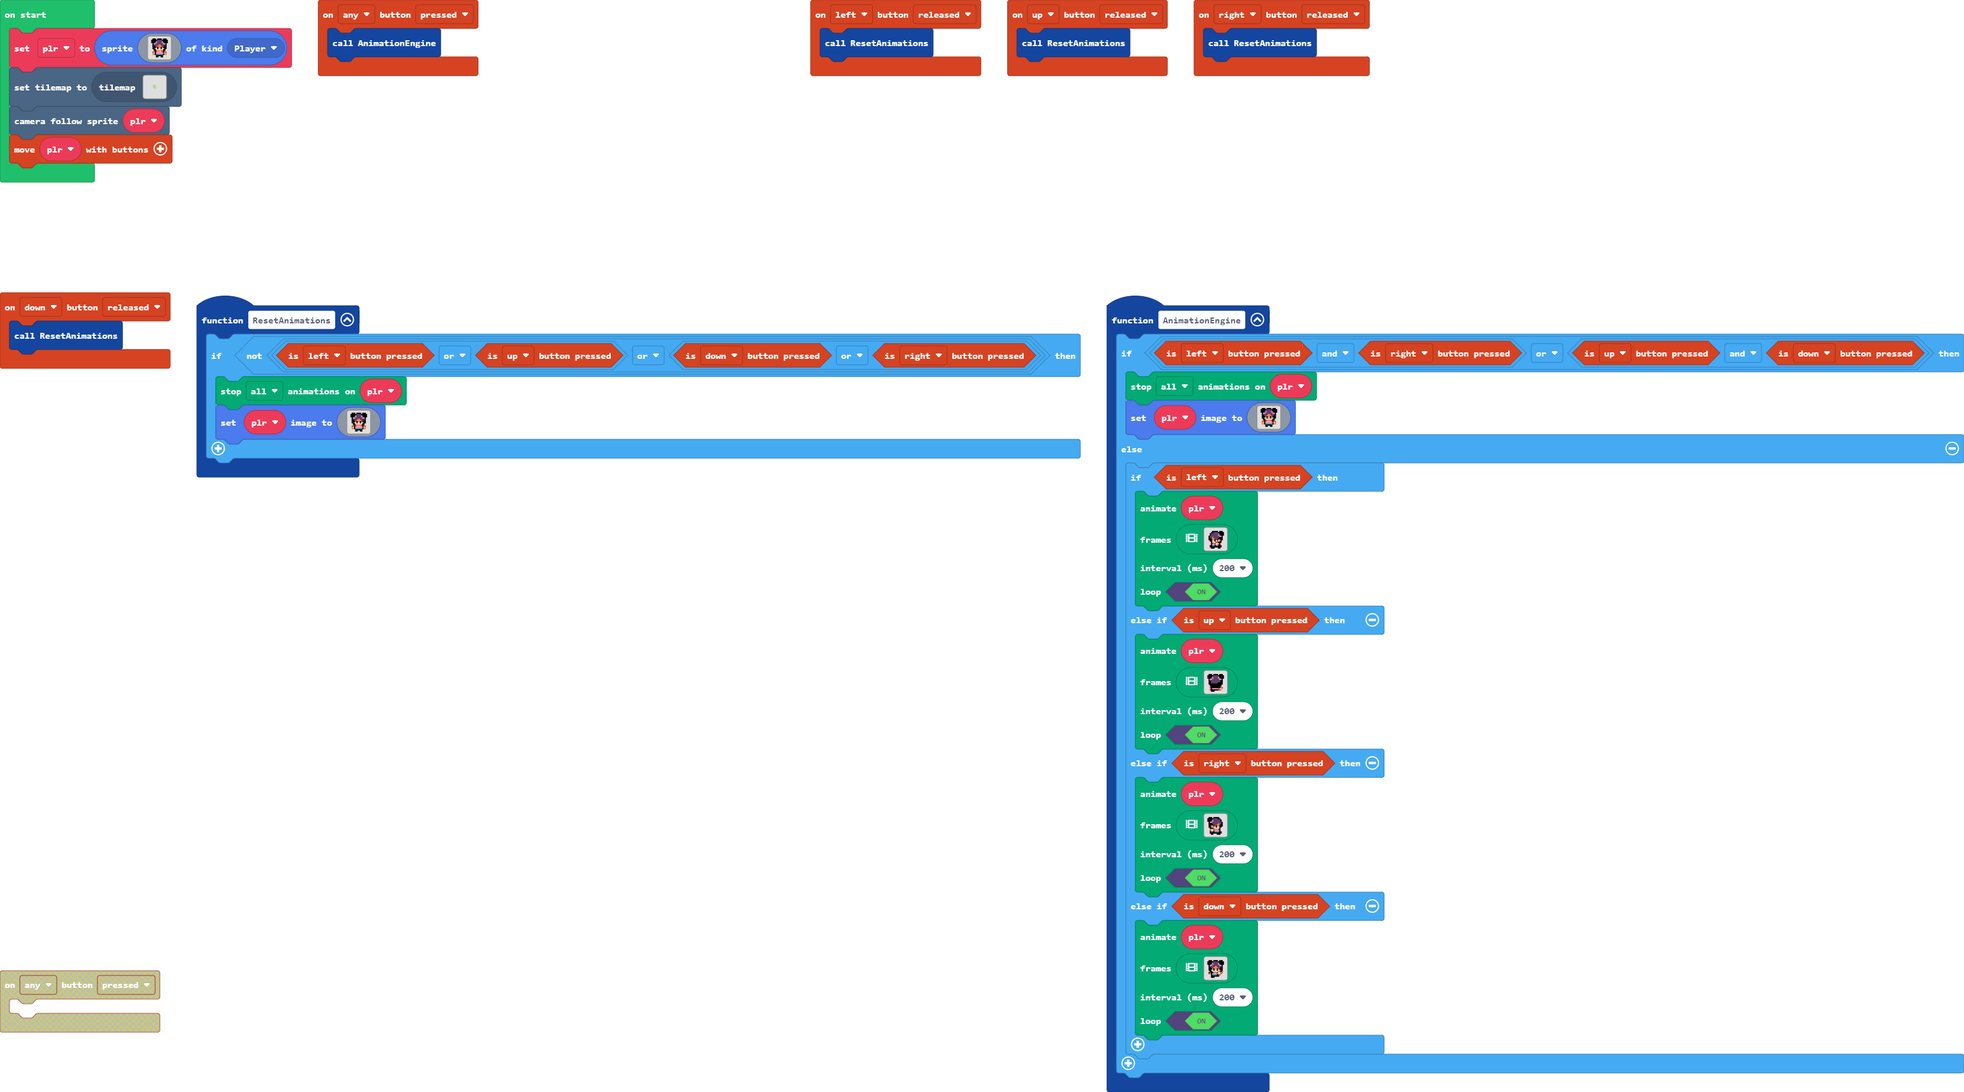
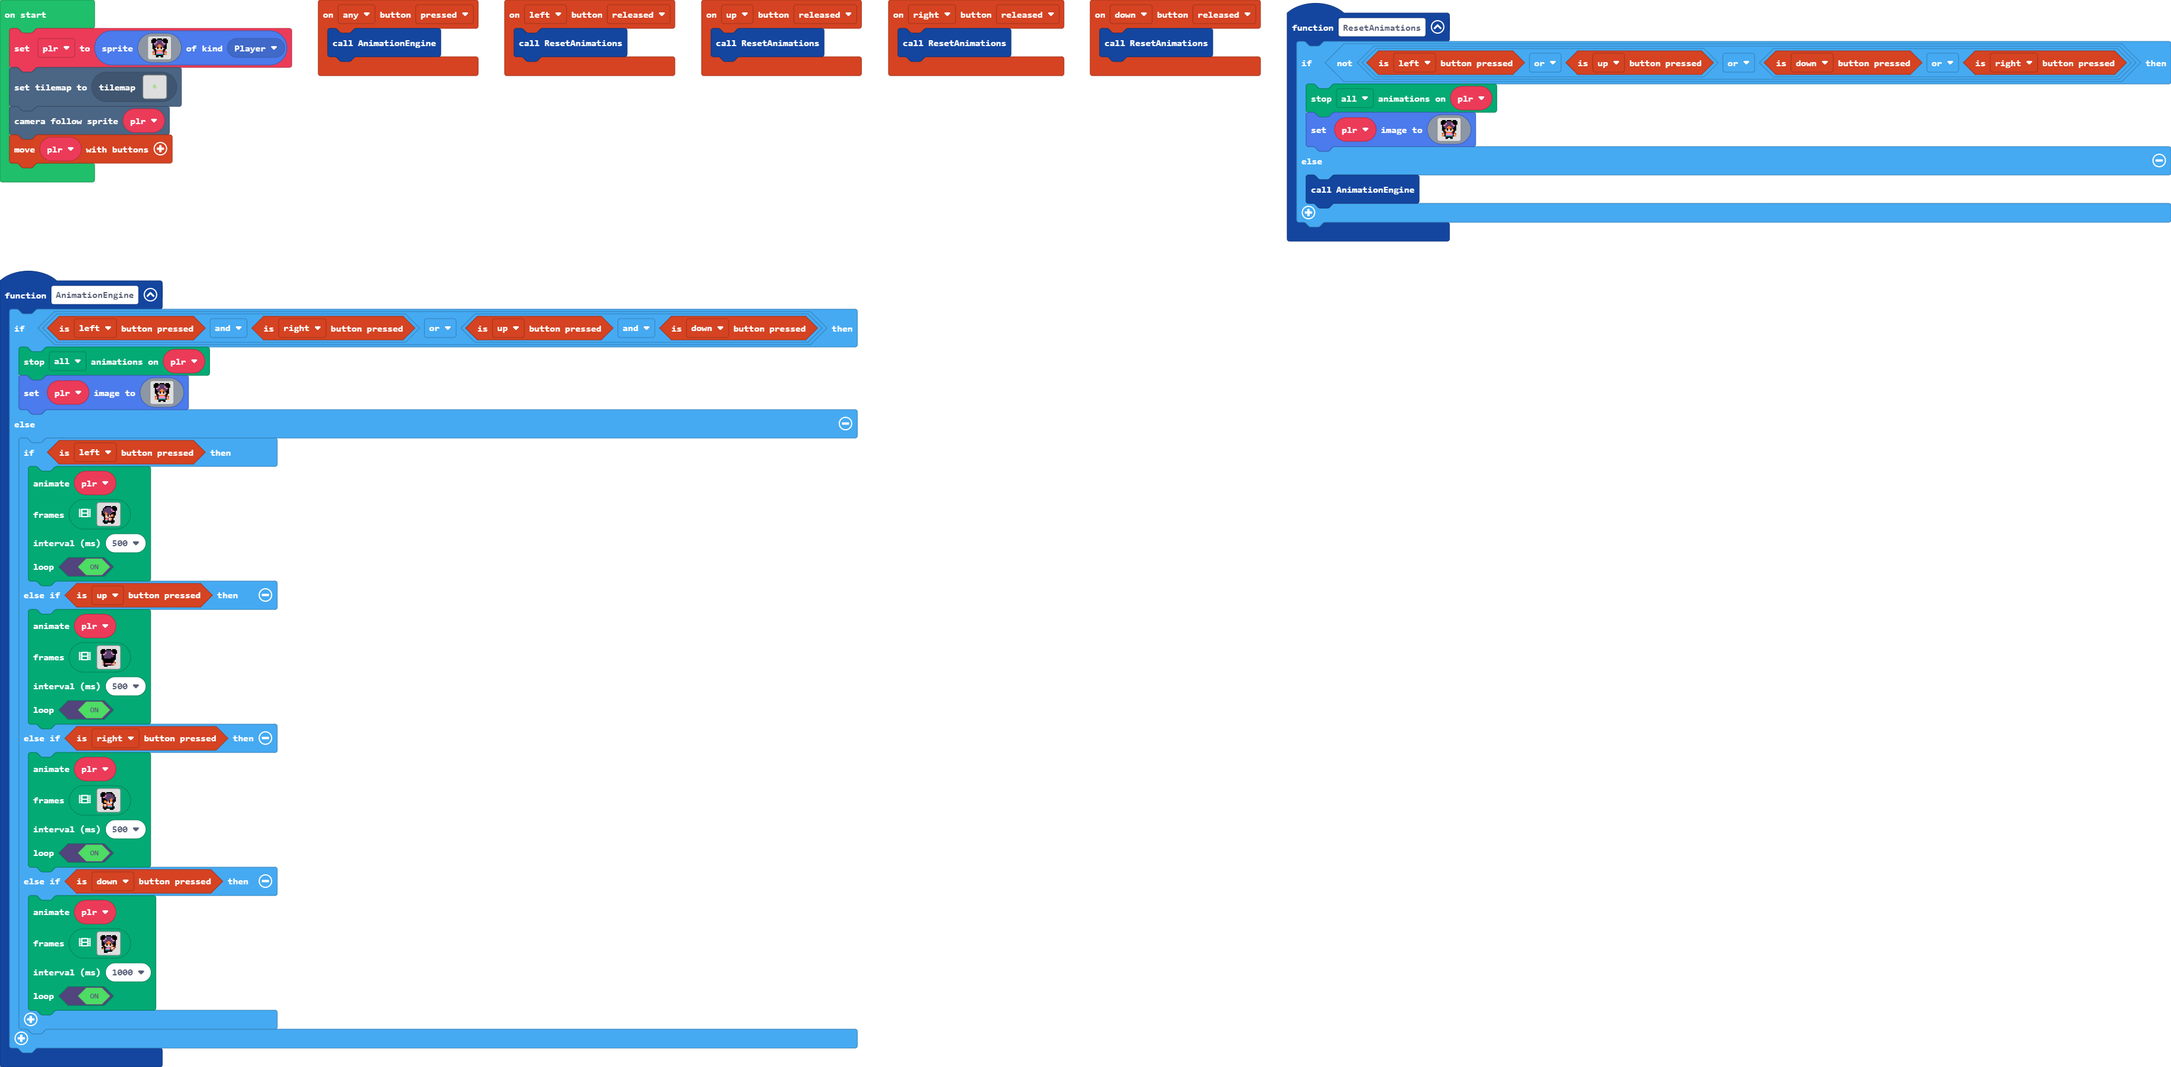
Update main.blocks, main.ts, tilemap.g.jres, tilemap.g.ts, images.g.jres, images.g.ts

Changed region(s): [[0.0, 0.2482, 1.0, 1.0], [0.0, 0.0, 1.0, 0.2482]]

diff --git a/tilemap.g.ts b/tilemap.g.ts
@@ -6,7 +6,7 @@ namespace myTiles {
     helpers._registerFactory("tilemap", function(name: string) {
         switch(helpers.stringTrim(name)) {
             case "forest":
-            case "forest1":return tiles.createTilemap(hex`4000400000000000000000000000000000000000000000000000000000000000000000000000000000000000000000000000000000000000000000000000000000000000000000000000000000000000000000000000000000000000000000000000000000000000000000000000000000000000000000000000000000000000000000000000000000000000000000000000000000000000000000000000000000000000000000000000000000000000000000000000000000000000000000000000000000000000000000000000000000000000000000000000000000000000000000000000000000000000000000000000000000000000000000000000000000000000000000000000000000000000000000000000000000000000000000000000000000000000000000000000000000000000000000000000000000000000000000000000000000000000000000000000000000000000000000000000000000000000000000000000000000000000000000000000000000000000000000000000000000000000000000000000000000000000000000000000000000000000000000000000000000000000000000000000000000000000000000000000000000000000000000000000000000000000000000000000000000000000000000000000000000000000000000000000000000000000000000000000000000000000000000000000000000000000000000000000000000000000000000000000000000000000000000000000000000000000000000000000000000000000000000000000000000000000000000000000000000000000000000000000000000000000000000000000000000000000000000000000000000000000000000000000000000000000000000000000000000000000000000000000000000000000000000000000000000000000000000000000000000000000000000000000000000000000000000000000000000000000000000000000000000000000000000000000000000000000000000000000000000000000000000000000000000000000000000000000000000000000000000000000000000000000000000000000000000000000000000000000000000000000000000000000000000000000000000000000000000000000000000000000000000000000000000000000000000000000000000000000000000000000000000000000000000000000000000000000000000000000000000000000000000000000000000000000000000000000000000000000000000000000000000000000000000000000000000000000000000000000000000000000000000000000000000000000000000000000000000000000000000000000000000000000000000000000000000000000000000000000000000000000000000000000000000000000000000000000000000000000000000000000000000000000000000000000000000000000000000000000000000000000000000000000000000000000000000000000000000000000000000000000000000000000000000000000000000000000000000000000000000000000000000000000000000000000000000000000000000000000000000000000000000000000000000000000000000000000000000000000000000000000000000000000000000000000000000000000000000000000000000000000000000000000000000000000000000000000000000000000000000000000000000000000000000000000000000000000000000000000000000000000000000000000000000000000000000000000000000000000000000000000000000000000000000000000000000000000000000000000000000000000000000000000000000000000000000000000000000000000000000000000000000000000000000000000000000000000000000000000000000000000000000000000000000000000000000000000000000000000000000000000000000000000000000000000000000000000000000000000000000000000000000000000000000000000000000000000000000000000000000000000000000000000000000000000000000000000000000000000000000000000000000000000000000000000000000000000000000000000000000000000000000000000000000000000000000000000000000000000000000000000000000000000000000000000000000000000000000000000000000000000000000000000000000080808010809080000000000000000000000000000000000000000000000000000000000000000000000000000000000000000000000000000000000000000000808080808080800000000000000000000000000000000000000000000000000000000000000000000000000000000000000000000000000000000000000000009080808080108000000000000000000000000000000000000000000000000000000000000000000000000000000000000000000000000000000000000000000090908010706050100000000000000000000000000000000000000000000000000000000000000000000000000000000000000000000000000000000000000000808080804020301000000000000000000000000000000000000000000000000000000000000000000000000000000000000000000000000000000000000000008080108040203080008000000000000000000000000000000000000000000000000000000000000000000000000000000000000000000000000000000000000080101080402030900000000000000000000000000000000000000000000000000000000000000000000000000000000000000000000000000000000000000000801010804020308090000000000000000000000000000000000000000000000000000000000000000000000000000000000000000000000000000000000000008010908040203090100000000000000000000000000000000000000000000000000000000000000000000000000000000000000000000000000000000000000080909080402030109080900000000000000000000000000000000000000000000000000000000000000000000000000000000000000000000000000000000000808080804020309080100000000000000000000000000000000000000000000000000000000000000000000000000000000000000000000000000000000000000000606020202060600000000000000000000000000000000000000000000000000000000000000000000000000000000000000000000000000000000000000000002020202020202000000000000000000000000000000000000000000000000000000000000000000000000000000000000000000000000000000000000000000000000000000000000000000000000000000000000000000000000000000000000000000000000000000000000000000000000000000000000000000000000000000000000000000000000000000000000000000000000000000000000000000000000000000000000000000000000000000000000000000000000000000000000000000000000000000000000000000000000000000000000000000000000000000000000000000000000000000000000000000000000000000000000000000000000000000000000000000000000000000000000000000000000000000000000000000000000000000000000000000000000000000000000000000000000000000000000000000000000000000000000000000000000000000000000000000000000000000000000000000000000000000000000000000000000000000000000000000000000000000000000000000000000000000000000000000000000000000000000000000000000000000000000000000000000000000000000000000000000000000000000000000000000000000000000000000000000000000000000000000000000000000000000000000000000000000000000000000000000000000000000000000000000000000000000000000000000000000000000000000000000000000000000000000000000000000000000000000000000000000000000000000000000000000000000000000000000000000000000000000000000000000000000000000000000000000000000000000000000000000000000000000000000000000000000000000000000000000000000000000000000000000000000000000000000000000000000000000000000000000000000000000000000000000000000000000000000000000000000000000000000000000000000000000000000000000000000000000000000000000000000000000000000000000000000000000000000000000000000000000000000000000000000000000000000000000000000000000000000000000000000000000000000000000000000000000000000000000000000000000000000000000000000000000000000000000000000000000000000000000000000000000000000000000000000000000000000000000000000000000000000000000000000000000000000000000000000000000000000000000000000000000000000000000000000000000000000000000000000000000000000000000000000000000000000000000000000000000000000000000000000000000000000000000000000000000000000000000000000000000000000000000000000000000000000000000000000000000000000000000000000000000000000000000000000000000000000000000000000000000000000000000000000000000000000000000000000000000000000000000000000000000000000000000000000000000000000000000000000000000000000000000000000000000000000000000000000000000000000000000000000000000000000000000000000000000000000000000000000000000000000000000000000000000000000000000000000000000000000000000000000000000000000000000000000000000000000000000000000000000000000000000000000000000000000000000000000000000000000000000000000000000000000000000000000000000000000000000000000000000000000000000000000000000000000000000000000000000000000000000000000000000000000000000000000000000000000000000000000000000000000000000000000000000000000000000000000000000000000000000000000000000000000000000000000000000000000000000000000000000000000000000000000000000000000000000000000000000000000000000000000000000000000000000000000000000000000000000000000000000000000000000000000000000000000000000000000000000000000000000000000000000000000000000000000000000000000000000000000000000000000000000000000000000000000000000000000000000000000000000000000000000000000000000000000000000000000000000000000000000000000000000000000000000000000000000000000000000000000000000000000000000000000000000000000000000000000000000000000000000000000000000000000000000000000`, img`
+            case "forest1":return tiles.createTilemap(hex`4000400000000000000000000000000000000000000000000000000000000000000000000000000000000000000000000000000000000000000000000000000000000000000000000000000000000000000000000000000000000000000000000000000000000000000000000000000000000000000000000000000000000000000000000000000000000000000000000000000000000000000000000000000000000000000000000000000000000000000000000000000000000000000000000000000000000000000000000000000000000000000000000000000000000000000000000000000000000000000000000000000000000000000000000000000000000000000000000000000000000000000000000000000000000000000000000000000000000000000000000000000000000000000000000000000000000000000000000000000000000000000000000000000000000000000000000000000000000000000000000000000000000000000000000000000000000000000000000000000000000000000000000000000000000000000000000000000000000000000000000000000000000000000000000000000000000000000000000000000000000000000000000000000000000000000000000000000000000000000000000000000000000000000000000000000000000000000000000000000000000000000000000000000000000000000000000000000000000000000000000000000000000000000000000000000000000000000000000000000000000000000000000000000000000000000000000000000000000000000000000000000000000000000000000000000000000000000000000000000000000000000000000000000000000000000000000000000000000000000000000000000000000000000000000000000000000000000000000000000000000000000000000000000000000000000000000000000000000000000000000000000000000000000000000000000000000000000000000000000000000000000000000000000000000000000000000000000000000000000000000000000000000000000000000000000000000000000000000000000000000000000000000000000000000000000000000000000000000000000000000000000000000000000000000000000000000000000000000000000000000000000000000000000000000000000000000000000000000000000000000000000000000000000000000000000000000000000000000000000000000000000000000000000000000000000000000000000000000000000000000000000000000000000000000000000000000000000000000000000000000000000000000000000000000000000000000000000000000000000000000000000000000000000000000000000000000000000000000000000000000000000000000000000000000000000000000000000000000000000000000000000000000000000000000000000000000000000000000000000000000000000000000000000000000000000000000000000000000000000000000000000000000000000000000000000000000000000000000000000000000000000000000000000000000000000000000000000000000000000000000000000000000000000000000000000000000000000000000000000000000000000000000000000000000000000000000000000000000000000000000000000000000000000000000000000000000000000000000000000000000000000000000000000000000000000000000000000000000000000000000000000000000000000000000000000000000000000000000000000000000000000000000000000000000000000000000000000000000000000000000000000000000000000000000000000000000000000000000000000000000000000000000000000000000000000000000000000000000000000000000000000000000000000000000000000000000000000000000000000000000000000000000000000000000000000000000000000000000000000000000000000000000000000000000000000000000000000000000000000000000000000000000000000000000000000000000000000000000000000000000000000000000000000000000000000000000000000000000000000000000000000000000000000000000000000000000000000000000000000000000000000000000000000000080808010809080000000000000000000000000000000000000000000000000000000000000000000000000000000000000000000000000000000000000000000808080808080800000000000000000000000000000000000000000000000000000000000000000000000000000000000000000000000000000000000000000009080808080108000000000000000000000000000000000000000000000000000000000000000000000000000000000000000000000000000000000000000000090908010706050100000000000000000000000000000000000000000000000000000000000000000000000000000000000000000000000000000000000000000808080804020301000000000000000000000000000000000000000000000000000000000000000000000000000000000000000000000000000000000000000008080108040203080008000000000000000000000000000000000000000000000000000000000000000000000000000000000000000000000000000000000000080101080402030900000000000000000000000000000000000000000000000000000000000000000000000000000000000000000000000000000000000000000801010804020308090000000000000000000000000000000000000000000000000000000000000000000000000000000000000000000000000000000000000008010908040203090100000000000000000000000000000000000000000000000000000000000000000000000000000000000000000000000000000000000000080909080402030109080900000000000000000000000000000000000000000000000000000000000000000000000000000000000000000000000000000000000808080904020309080100000000000000000000000000000000000000000000000000000000000000000000000000000000000000000000000000000000000000000606020202060600000000000000000000000000000000000000000000000000000000000000000000000000000000000000000000000000000000000000000002020202020202000000000000000000000000000000000000000000000000000000000000000000000000000000000000000000000000000000000000000000000000000000000000000000000000000000000000000000000000000000000000000000000000000000000000000000000000000000000000000000000000000000000000000000000000000000000000000000000000000000000000000000000000000000000000000000000000000000000000000000000000000000000000000000000000000000000000000000000000000000000000000000000000000000000000000000000000000000000000000000000000000000000000000000000000000000000000000000000000000000000000000000000000000000000000000000000000000000000000000000000000000000000000000000000000000000000000000000000000000000000000000000000000000000000000000000000000000000000000000000000000000000000000000000000000000000000000000000000000000000000000000000000000000000000000000000000000000000000000000000000000000000000000000000000000000000000000000000000000000000000000000000000000000000000000000000000000000000000000000000000000000000000000000000000000000000000000000000000000000000000000000000000000000000000000000000000000000000000000000000000000000000000000000000000000000000000000000000000000000000000000000000000000000000000000000000000000000000000000000000000000000000000000000000000000000000000000000000000000000000000000000000000000000000000000000000000000000000000000000000000000000000000000000000000000000000000000000000000000000000000000000000000000000000000000000000000000000000000000000000000000000000000000000000000000000000000000000000000000000000000000000000000000000000000000000000000000000000000000000000000000000000000000000000000000000000000000000000000000000000000000000000000000000000000000000000000000000000000000000000000000000000000000000000000000000000000000000000000000000000000000000000000000000000000000000000000000000000000000000000000000000000000000000000000000000000000000000000000000000000000000000000000000000000000000000000000000000000000000000000000000000000000000000000000000000000000000000000000000000000000000000000000000000000000000000000000000000000000000000000000000000000000000000000000000000000000000000000000000000000000000000000000000000000000000000000000000000000000000000000000000000000000000000000000000000000000000000000000000000000000000000000000000000000000000000000000000000000000000000000000000000000000000000000000000000000000000000000000000000000000000000000000000000000000000000000000000000000000000000000000000000000000000000000000000000000000000000000000000000000000000000000000000000000000000000000000000000000000000000000000000000000000000000000000000000000000000000000000000000000000000000000000000000000000000000000000000000000000000000000000000000000000000000000000000000000000000000000000000000000000000000000000000000000000000000000000000000000000000000000000000000000000000000000000000000000000000000000000000000000000000000000000000000000000000000000000000000000000000000000000000000000000000000000000000000000000000000000000000000000000000000000000000000000000000000000000000000000000000000000000000000000000000000000000000000000000000000000000000000000000000000000000000000000000000000000000000000000000000000000000000000000000000000000000000000000000000000000000000000000000000000000000000000000000000000000000000000000000000000000000000000000000000000000000000000000000000000000000000000000000000000000000000000000000000000000000000000000000000000000000000000000000000000000000000`, img`
 ................................................................
 ................................................................
 ................................................................

diff --git a/images.g.ts b/images.g.ts
@@ -28,42 +28,6 @@ f f f c 3 c c c c 3 c f f f
 
     helpers._registerFactory("animation", function(name: string) {
         switch(helpers.stringTrim(name)) {
-            case "walkA":
-            case "anim1":return [img`
-. . . . . . . . . . . . . . 
-. f f f . f f f f . f f f . 
-f f f f f c c c c f f f f f 
-f f f f b c c c c b f f f f 
-f f f c 3 c c c c 3 c f f f 
-. f 3 3 c c c c c c 3 3 f . 
-. f c c c c 4 4 c c c c f . 
-. f f c c 4 4 4 4 c c f f . 
-. f f f b f 4 4 f b f f f . 
-. f f 4 1 f d d f 1 4 f f . 
-. . f f d d d d d 4 e f e . 
-. f e f f b b b e d d 4 e . 
-. e 4 f b 3 3 3 e d d e . . 
-. . . f 6 6 6 6 f e e . . . 
-. . . f f f f f f f . . . . 
-. . . f f f . . . . . . . . 
-`, img`
-. . . . . . . . . . . . . . 
-. f f f . f f f f . f f f . 
-f f f f f c c c c f f f f f 
-f f f f b c c c c b f f f f 
-f f f c 3 c c c c 3 c f f f 
-. f 3 3 c c c c c c 3 3 f . 
-. f c c c c 4 4 c c c c f . 
-. f f c c 4 4 4 4 c c f f . 
-. f f f b f 4 4 f b f f f . 
-. f f 4 1 f d d f 1 4 f f . 
-. e f e 4 d d d d d f f . . 
-. e 4 d d e b b b f f e f . 
-. . e d d e 3 3 b e f 4 e . 
-. . . e e f 6 6 6 6 f . . . 
-. . . . f f f f f f f . . . 
-. . . . . . . . f f f . . . 
-`];
             case "walkC":
             case "anim3":return [img`
 . . . . . . . . . . . . . . 
@@ -170,6 +134,42 @@ f f f c 3 c c c c 3 c f f f
 . e 4 f f f f f f f f e . . 
 . 4 d d e 3 3 3 3 3 f 4 . . 
 . . 4 e e f f f f f f e . . 
+. . . . . . . . f f f . . . 
+`];
+            case "walkA":
+            case "anim1":return [img`
+. . . . . . . . . . . . . . 
+. f f f . f f f f . f f f . 
+f f f f f c c c c f f f f f 
+f f f f b c c c c b f f f f 
+f f f c 3 c c c c 3 c f f f 
+. f 3 3 c c c c c c 3 3 f . 
+. f c c c c 4 4 c c c c f . 
+. f f c c 4 4 4 4 c c f f . 
+. f f f b f 4 4 f b f f f . 
+. f f 4 1 f d d f 1 4 f f . 
+. . f f d d d d d 4 e f e . 
+. f e f f b b b e d d 4 e . 
+. e 4 f b 3 3 3 e d d e . . 
+. . . f 6 6 6 6 f e e . . . 
+. . . f f f f f f f . . . . 
+. . . f f f . . . . . . . . 
+`, img`
+. . . . . . . . . . . . . . 
+. f f f . f f f f . f f f . 
+f f f f f c c c c f f f f f 
+f f f f b c c c c b f f f f 
+f f f c 3 c c c c 3 c f f f 
+. f 3 3 c c c c c c 3 3 f . 
+. f c c c c 4 4 c c c c f . 
+. f f c c 4 4 4 4 c c f f . 
+. f f f b f 4 4 f b f f f . 
+. f f 4 1 f d d f 1 4 f f . 
+. e f e 4 d d d d d f f . . 
+. e 4 d d e b b b f f e f . 
+. . e d d e 3 3 b e f 4 e . 
+. . . e e f 6 6 6 6 f . . . 
+. . . . f f f f f f f . . . 
 . . . . . . . . f f f . . . 
 `];
         }

diff --git a/main.ts b/main.ts
@@ -7,28 +7,28 @@ function AnimationEngine () {
             animation.runImageAnimation(
             plr,
             assets.animation`walkC`,
-            200,
+            500,
             true
             )
         } else if (controller.up.isPressed()) {
             animation.runImageAnimation(
             plr,
             assets.animation`walkB`,
-            200,
+            500,
             true
             )
         } else if (controller.right.isPressed()) {
             animation.runImageAnimation(
             plr,
             assets.animation`walkD`,
-            200,
+            500,
             true
             )
         } else if (controller.down.isPressed()) {
             animation.runImageAnimation(
             plr,
             assets.animation`walkA`,
-            200,
+            1000,
             true
             )
         }
@@ -38,6 +38,8 @@ function ResetAnimations () {
     if (!(controller.left.isPressed() || controller.up.isPressed() || (controller.down.isPressed() || controller.right.isPressed()))) {
         animation.stopAnimation(animation.AnimationTypes.All, plr)
         plr.setImage(assets.image`char`)
+    } else {
+        AnimationEngine()
     }
 }
 controller.anyButton.onEvent(ControllerButtonEvent.Pressed, function () {
